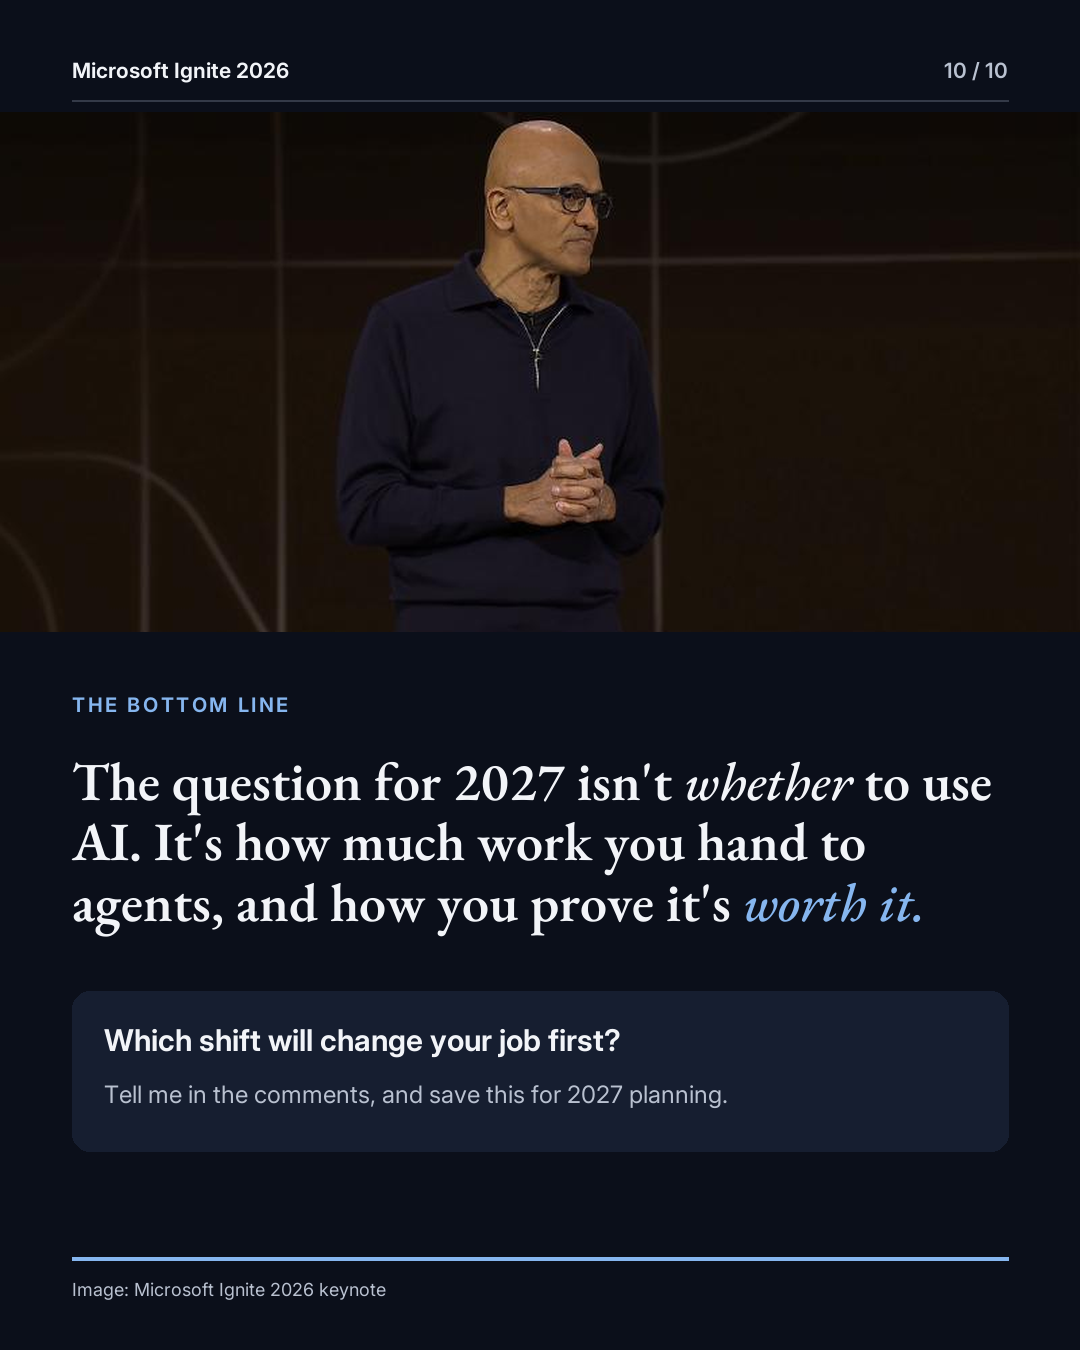
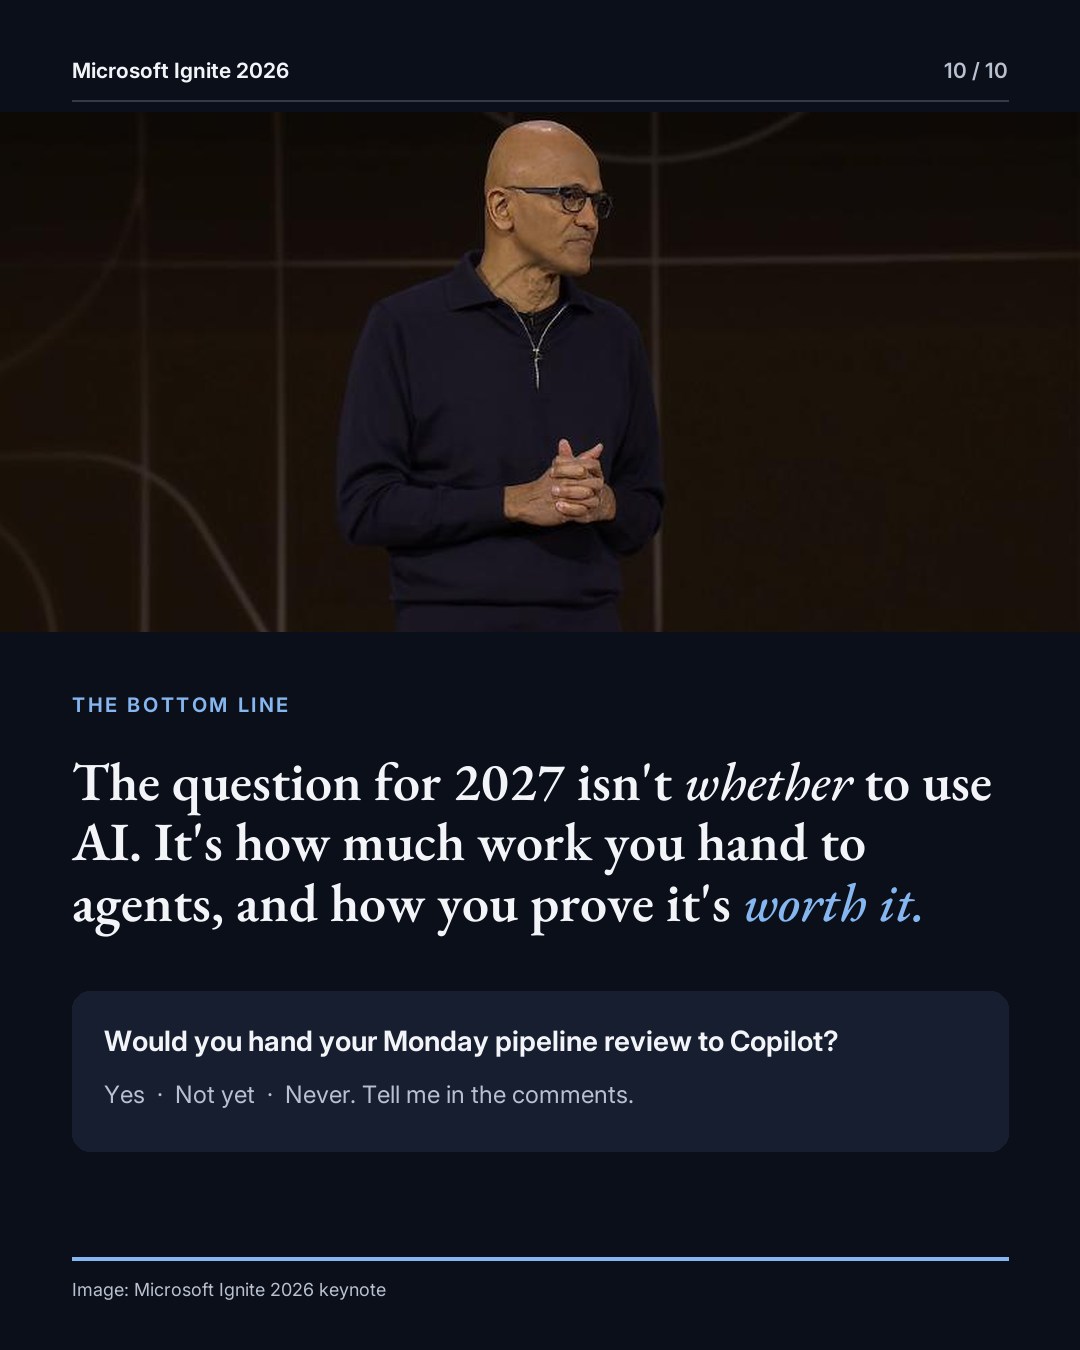
Sharpen LinkedIn post: 35% hook, personal angle, shorter text, choice question on post and last slide

Changed region(s): [[0.0917, 0.7467, 0.7639, 0.84]]

diff --git a/outputs/linkedin_mockup_overview.html b/outputs/linkedin_mockup_overview.html
@@ -24,9 +24,9 @@
 <p class="note">Mockup only: how your post could look in a feed. Real layout, fonts and counts will vary.</p>
 <div class="card">
  <div class="hd"><div class="av">YN</div><div><div class="nm">Your name</div><div class="sub">Data &amp; AI | Microsoft ecosystem</div><div class="sub">1h · 🌐</div></div><span class="fol">+ Follow</span></div>
- <div class="tx"><span>Yesterday at Ignite, Microsoft stopped selling AI as a feature and started selling it as a workforce.<br><br>I went through the keynote demos so you don't have to. Here's what the products actually do 👇</span><span id="rest" hidden><br><br>📊 Copilot ran a full sales review on its own. It pulled the pipeline from Salesforce, flagged the deals at risk and drafted a Teams message, showing every step it took.<br><br>🤖 Autopilot takes standing instructions. "If a client hasn't replied in a week, draft a follow-up for me to approve."<br><br>💷 AI gets an ROI dashboard. Agent 365 shows the cost, estimated value and hours saved for each team and each task.<br><br>✈ In an Alaska Airlines demo, a fine-tuned model was more accurate (97%) and cost $2 a month instead of $370.<br><br>🧹 IT gets tools to find and retire unused agents. One demo tenant had 2,600 of them.<br><br>The reality check: an independent count found only 35% of the 215 new features are live today. Microsoft also gave no new Copilot seat number (the last one was 30M, in July).<br><br>What this means for 2027:<br>1. Work moves from doing to directing<br>2. AI becomes a line item to manage, not a pilot to try<br>3. Smaller models trained on your own data get cheaper and better<br>4. Copilot connects to tools beyond Microsoft<br>5. Trust decides how far agents can go<br><br>The skill that matters most next year is knowing how to brief, check and manage agents, not knowing which buttons to press.<br><br>Which of these will change your job first? 👇<br><br><span class="tag">#MicrosoftIgnite</span> <span class="tag">#FutureOfWork</span> <span class="tag">#Copilot</span> <span class="tag">#AI</span> <span class="tag">#Leadership</span></span> <button class="more" id="more">…more</button></div>
+ <div class="tx"><span>Microsoft announced 215 new features at Ignite this week.<br>Only 35% of them work today.<br></span><span id="rest" hidden><br>I work in integration and technical delivery, so I went through the keynote demos looking for the ones that change how work actually gets done. Three stood out:<br><br>📊 Copilot ran a full sales review across Salesforce, Outlook and Teams in one conversation, and showed every step it took. That's integration work, done by an agent.<br><br>💷 Agent 365 now puts a cost and an estimated value on every AI task. AI finally has an ROI dashboard.<br><br>✈ In an Alaska Airlines demo, a small trained model hit 97% accuracy for $2 a month instead of $370.<br><br>My take: the skill that matters in 2027 isn't knowing where Copilot's buttons are. It's briefing, checking and managing agents.<br><br>The carousel has the product screens, the reality check, and the one skill to build for your role 👇<br><br>Would you hand your Monday pipeline review to Copilot?<br>Yes / Not yet / Never<br><br><span class="tag">#MicrosoftIgnite</span> <span class="tag">#Copilot</span> <span class="tag">#AI</span> <span class="tag">#FutureOfWork</span></span> <button class="more" id="more">…more</button></div>
  <div class="doc">
-  <div class="doc-hd"><span>Ignite 2026: the day Microsoft started selling an AI workforce</span><span id="pg">1 / 10</span></div>
+  <div class="doc-hd"><span>Ignite 2026: what's real, what's coming, and the skill to build</span><span id="pg">1 / 10</span></div>
   <img id="slide" src="overview_slides/slide_01.png" alt="Carousel slide">
   <button class="nav prev" id="prev" aria-label="Previous slide" disabled>‹</button>
   <button class="nav next" id="next" aria-label="Next slide">›</button>
@@ -34,7 +34,7 @@
  </div>
  <div class="stats"><span><span class="react"><i style="background:#378fe9"></i><i style="background:#5f9b41"></i><i style="background:#df704d"></i></span>Reactions</span><span>Comments · Reposts</span></div>
  <div class="acts"><span>👍 Like</span><span>💬 Comment</span><span>🔁 Repost</span><span>➤ Send</span></div>
- <div class="cm"><div class="av">YN</div><div class="bub"><b>Your name</b> · Author<br>Full visual overview, with product screenshots: &lt;your overview link&gt;<br>Open dataset and code: <a href="https://github.com/Osman246/ignite-2026-roundup">github.com/Osman246/ignite-2026-roundup</a></div></div>
+ <div class="cm"><div class="av">YN</div><div class="bub"><b>Your name</b> · Author<br>Full visual overview, with product screenshots and what it means for each role: &lt;your overview link&gt;<br>Open dataset and code: <a href="https://github.com/Osman246/ignite-2026-roundup">github.com/Osman246/ignite-2026-roundup</a></div></div>
 </div>
 <script>
 let i=1;const n=10,img=document.getElementById('slide'),pg=document.getElementById('pg'),bar=document.getElementById('bar'),p=document.getElementById('prev'),x=document.getElementById('next');

diff --git a/src/overview_carousel.py b/src/overview_carousel.py
@@ -238,8 +238,8 @@ def bottom(n, total, o):
     y = headline(d, M, 800, "The question for 2027 isn't *whether* to use AI. It's how much work you hand to agents, and how you prove it's *^worth it.^*",
                  54, W - 2 * M, STAGE_INK, BLUE_LT, 1.12)
     d.rounded_rectangle([M, y + 10, W - M, y + 170], 18, fill=(22, 30, 48))
-    d.text((M + 32, y + 70), "Which shift will change your job first?", font=sans(30, 650), fill=STAGE_INK, anchor="ls")
-    d.text((M + 32, y + 122), "Tell me in the comments, and save this for 2027 planning.", font=sans(24, 400), fill=STAGE_INK2, anchor="ls")
+    d.text((M + 32, y + 70), "Would you hand your Monday pipeline review to Copilot?", font=sans(28, 650), fill=STAGE_INK, anchor="ls")
+    d.text((M + 32, y + 122), "Yes  ·  Not yet  ·  Never. Tell me in the comments.", font=sans(24, 400), fill=STAGE_INK2, anchor="ls")
     return im
 
 

diff --git a/LINKEDIN_POST_OVERVIEW.md b/LINKEDIN_POST_OVERVIEW.md
@@ -1,43 +1,44 @@
 # LinkedIn post: Ignite 2026 overview (main post)
 
-**Format:** a document post. Upload `outputs/linkedin_overview_carousel.pdf` and give it the title "Ignite 2026: the day Microsoft started selling an AI workforce".
-**Timing:** post during Ignite week (17–20 Nov), on a weekday morning.
-**Links:** put the overview page and GitHub repo in the first comment.
-**Images:** the slides use product screens from Microsoft's keynote demos, credited on each slide.
+**Format:** a document post. Upload `outputs/linkedin_overview_carousel.pdf` and give it the title "Ignite 2026: what's real, what's coming, and the skill to build".
+**Timing:** post during Ignite week (it ends 20 Nov), Tuesday to Thursday, 8–9am.
+**Before posting:**
+- Share the overview page from its Share menu first. It's private until you do, so the first-comment link would fail.
+- Check the personal line ("I work in integration and technical delivery…") is how you'd describe your work, and edit it if not.
 
 ---
 
-Yesterday at Ignite, Microsoft stopped selling AI as a feature and started selling it as a workforce.
+Microsoft announced 215 new features at Ignite this week.
+Only 35% of them work today.
 
-I went through the keynote demos so you don't have to. Here's what the products actually do 👇
+I work in integration and technical delivery, so I went through the keynote demos looking for the ones that change how work actually gets done. Three stood out:
 
-📊 Copilot ran a full sales review on its own. It pulled the pipeline from Salesforce, flagged the deals at risk and drafted a Teams message, showing every step it took.
+📊 Copilot ran a full sales review across Salesforce, Outlook and Teams in one conversation, and showed every step it took. That's integration work, done by an agent.
 
-🤖 Autopilot takes standing instructions. "If a client hasn't replied in a week, draft a follow-up for me to approve."
+💷 Agent 365 now puts a cost and an estimated value on every AI task. AI finally has an ROI dashboard.
 
-💷 AI gets an ROI dashboard. Agent 365 shows the cost, estimated value and hours saved for each team and each task.
+✈ In an Alaska Airlines demo, a small trained model hit 97% accuracy for $2 a month instead of $370.
 
-✈ In an Alaska Airlines demo, a fine-tuned model was more accurate (97%) and cost $2 a month instead of $370.
+My take: the skill that matters in 2027 isn't knowing where Copilot's buttons are. It's briefing, checking and managing agents.
 
-🧹 IT gets tools to find and retire unused agents. One demo tenant had 2,600 of them.
+The carousel has the product screens, the reality check, and the one skill to build for your role 👇
 
-The reality check: an independent count found only 35% of the 215 new features are live today. Microsoft also gave no new Copilot seat number (the last one was 30M, in July).
+Would you hand your Monday pipeline review to Copilot?
+Yes / Not yet / Never
 
-What this means for 2027:
-1. Work moves from doing to directing
-2. AI becomes a line item to manage, not a pilot to try
-3. Smaller models trained on your own data get cheaper and better
-4. Copilot connects to tools beyond Microsoft
-5. Trust decides how far agents can go
-
-The skill that matters most next year is knowing how to brief, check and manage agents, not knowing which buttons to press.
-
-Which of these will change your job first? 👇
-
-#MicrosoftIgnite #FutureOfWork #Copilot #AI #Leadership
+#MicrosoftIgnite #Copilot #AI #FutureOfWork
 
 ---
 
-**First comment:**
-Full visual overview, with product screenshots and what it means for your role: <your overview link>
+**First comment (pin it):**
+Full visual overview, with product screenshots and what it means for each role: <your overview link>
 Open data and code: https://github.com/Osman246/ignite-2026-roundup
+Sources: Microsoft's Ignite Book of News and keynote remarks, plus Office Watch's count of 215 features (18 Nov).
+
+---
+
+## After posting
+
+- Stay around for the first hour and reply to every comment with a question back.
+- If someone answers "Not yet" or "Never", ask what would change their mind. Those threads get the most reach.
+- Repost 1–2 days later with one line about the most interesting answer.
